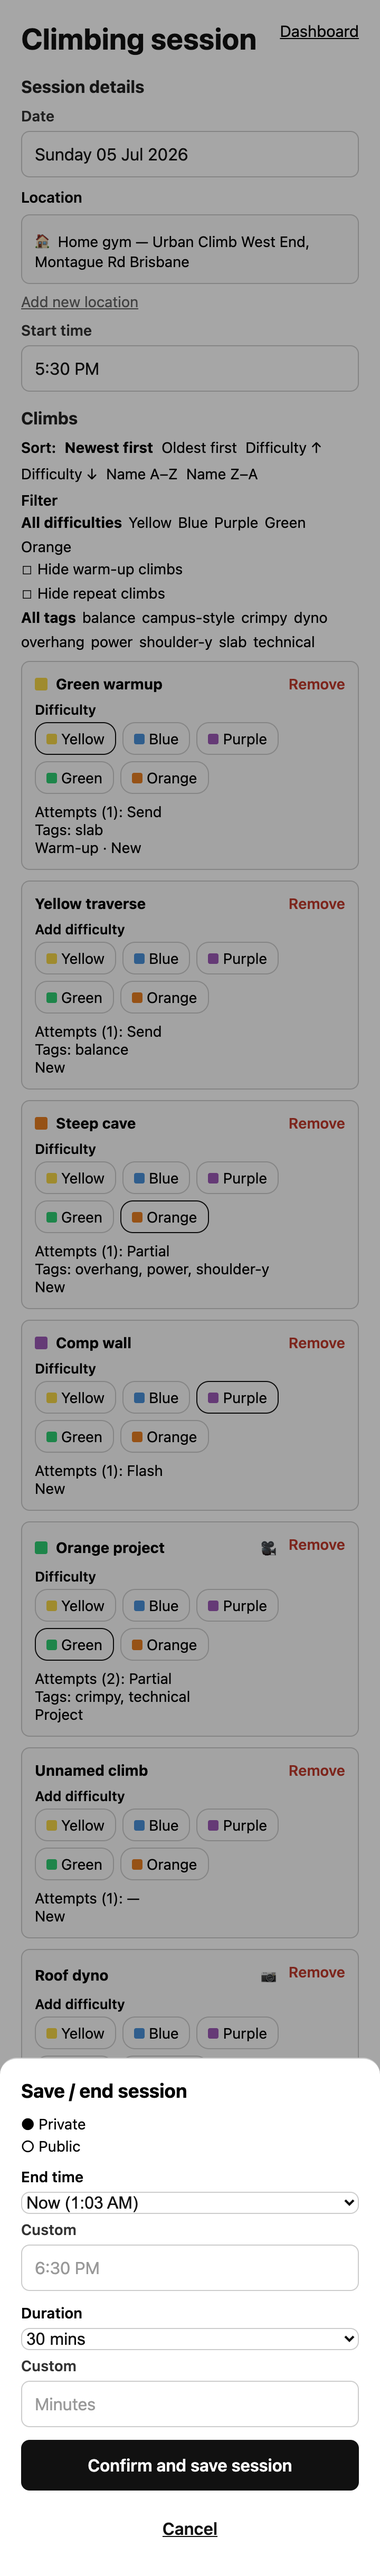
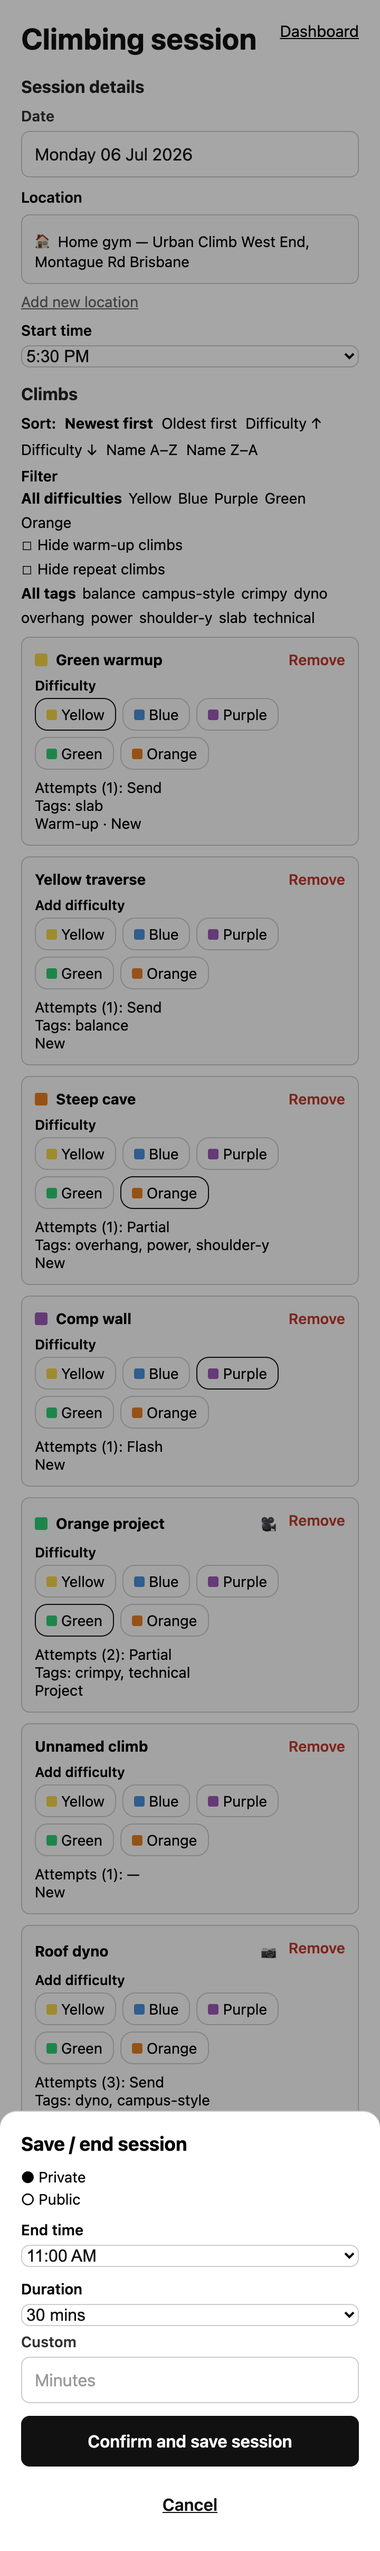
time dropdown field updated to allow more times to be added

diff --git a/app/sessions/[id]/active.tsx b/app/sessions/[id]/active.tsx
@@ -5,7 +5,7 @@ import { router, useLocalSearchParams } from 'expo-router';
 import { ClimbEditor } from '../../../src/components/SessionClimb';
 import { SessionClimbsList } from '../../../src/components/SessionClimbsList';
 import { SessionLocationPanel } from '../../../src/components/SessionLocationPanel';
-import { SessionTimeField } from '../../../src/components/SessionTimeField';
+import { SessionTimeDropdown } from '../../../src/components/SessionTimeDropdown';
 import { WireframeDropdown } from '../../../src/components/WireframeDropdown';
 import {
   WireframeBox,
@@ -24,7 +24,6 @@ import {
   climbHasDetails,
   computeDurationMinutes,
   DURATION_PRESETS,
-  END_TIME_PRESETS,
   formatSessionDate,
   nowTimeLabel,
   parseSessionDateDisplay,
@@ -77,7 +76,6 @@ export default function ActiveSessionScreen() {
   const [isPublic, setIsPublic] = useState(false);
   const [endTime, setEndTime] = useState(() => nowTimeLabel());
   const [durationMinutes, setDurationMinutes] = useState<number | undefined>();
-  const [customEndTime, setCustomEndTime] = useState('');
   const [customDuration, setCustomDuration] = useState('');
   const [usernameInput, setUsernameInput] = useState('');
   const [usernameTouched, setUsernameTouched] = useState(false);
@@ -102,16 +100,14 @@ export default function ActiveSessionScreen() {
       if (demo === 'flow-end-sheet') {
         const now = nowTimeLabel();
         setEndTime(now);
-        setCustomEndTime('');
-        setDurationMinutes(computeDurationMinutes('17:30', now));
+        setDurationMinutes(computeDurationMinutes('5:30 PM', now));
         setCustomDuration('');
         setShowEndSheet(true);
       }
       if (demo === 'flow-end-sheet-filled') {
-        setEndTime('19:30');
-        setCustomEndTime('');
-        setDurationMinutes(90);
+        setEndTime('7:30 PM');
         setCustomDuration('');
+        setDurationMinutes(90);
         setShowEndSheet(true);
       }
       flowUiApplied.current = demo;
@@ -135,15 +131,6 @@ export default function ActiveSessionScreen() {
     return getUsernameError(usernameInput, TAKEN_USERNAMES);
   }, [isPublic, username, usernameInput, usernameTouched]);
 
-  const endTimeOptions = useMemo(() => {
-    const now = nowTimeLabel();
-    const presets = END_TIME_PRESETS.filter((preset) => preset !== now);
-    return [
-      { value: now, label: `Now (${now})` },
-      ...presets.map((preset) => ({ value: preset, label: preset })),
-    ];
-  }, [showEndSheet]);
-
   const durationOptions = useMemo(
     () => DURATION_PRESETS.map((preset) => ({ value: String(preset.minutes), label: preset.label })),
     [],
@@ -152,7 +139,6 @@ export default function ActiveSessionScreen() {
   const openEndSheet = () => {
     const now = nowTimeLabel();
     setEndTime(now);
-    setCustomEndTime('');
     setDurationMinutes(computeDurationMinutes(session?.startTime ?? now, now));
     setCustomDuration('');
     setShowEndSheet(true);
@@ -291,19 +277,10 @@ export default function ActiveSessionScreen() {
             <Text>Sharing as {username}</Text>
           ) : null}
 
-          <WireframeDropdown
+          <SessionTimeDropdown
             label="End time"
             value={endTime}
-            options={endTimeOptions}
             onChange={(value) => {
-              setEndTime(value);
-              setCustomEndTime('');
-              setDurationMinutes(computeDurationMinutes(session.startTime, value));
-            }}
-            customValue={customEndTime}
-            customTime
-            onCustomChange={(value) => {
-              setCustomEndTime(value);
               setEndTime(value);
               setDurationMinutes(computeDurationMinutes(session.startTime, value));
             }}
@@ -380,7 +357,7 @@ export default function ActiveSessionScreen() {
             updateSession(session.id, { locationId, locationName })
           }
         />
-        <SessionTimeField
+        <SessionTimeDropdown
           label="Start time"
           value={session.startTime}
           onChange={(startTime) => updateSession(session.id, { startTime })}

diff --git a/src/utils/sessionUtils.ts b/src/utils/sessionUtils.ts
@@ -36,29 +36,10 @@ export function parseSessionDateDisplay(display: string) {
   return d.toISOString().slice(0, 10);
 }
 
-export const END_TIME_PRESETS = [
-  '5:00 PM',
-  '5:30 PM',
-  '6:00 PM',
-  '6:30 PM',
-  '7:00 PM',
-  '7:30 PM',
-  '8:00 PM',
-  '8:30 PM',
-  '9:00 PM',
-];
-
-export const TIME_INPUT_PLACEHOLDER = '6:30 PM';
-
 export function formatTimeLabel(hours24: number, minutes: number) {
   const period = hours24 >= 12 ? 'PM' : 'AM';
   const hours12 = hours24 % 12 || 12;
   return `${hours12}:${String(minutes).padStart(2, '0')} ${period}`;
-}
-
-export function nowTimeLabel() {
-  const d = new Date();
-  return formatTimeLabel(d.getHours(), d.getMinutes());
 }
 
 export function parseTimeToMinutes(time: string) {
@@ -86,6 +67,44 @@ export function parseTimeToMinutes(time: string) {
   }
 
   return 0;
+}
+
+export function snapTimeToQuarterHours(hours24: number, minutes: number) {
+  let total = hours24 * 60 + minutes;
+  total = Math.round(total / 15) * 15;
+  total = ((total % (24 * 60)) + 24 * 60) % (24 * 60);
+  return formatTimeLabel(Math.floor(total / 60), total % 60);
+}
+
+export const TIME_DROPDOWN_VALUES: string[] = (() => {
+  const values: string[] = [];
+  for (let hour = 0; hour < 24; hour += 1) {
+    for (let minute = 0; minute < 60; minute += 15) {
+      values.push(formatTimeLabel(hour, minute));
+    }
+  }
+  return values;
+})();
+
+export const TIME_DROPDOWN_OPTIONS = TIME_DROPDOWN_VALUES.map((value) => ({
+  value,
+  label: value,
+}));
+
+/** Map any h:mm AM/PM value to the nearest 15-minute dropdown option. */
+export function resolveTimeDropdownValue(time: string) {
+  const trimmed = time.trim();
+  if (!trimmed) return TIME_DROPDOWN_VALUES[0];
+  if (TIME_DROPDOWN_VALUES.includes(trimmed)) return trimmed;
+  const totalMinutes = parseTimeToMinutes(trimmed);
+  const hours24 = Math.floor(totalMinutes / 60);
+  const mins = totalMinutes % 60;
+  return snapTimeToQuarterHours(hours24, mins);
+}
+
+export function nowTimeLabel() {
+  const d = new Date();
+  return snapTimeToQuarterHours(d.getHours(), d.getMinutes());
 }
 
 export const DURATION_PRESETS: { label: string; minutes: number }[] = [

diff --git a/src/utils/validation.ts b/src/utils/validation.ts
@@ -1,5 +1,3 @@
-import { TIME_INPUT_PLACEHOLDER } from './sessionUtils';
-
 export function isValidEmail(value: string) {
   return /^[^\s@]+@[^\s@]+\.[^\s@]+$/.test(value.trim());
 }
@@ -43,47 +41,5 @@ export function getUsernameError(value: string, takenUsernames: string[]) {
   if (!value.trim()) return undefined;
   if (!/^[a-zA-Z0-9_]{3,20}$/.test(value)) return 'Use 3–20 letters, numbers, or underscores';
   if (takenUsernames.includes(value.toLowerCase())) return 'Username is already taken';
-  return undefined;
-}
-
-export function sanitizeTimeInput(value: string) {
-  return value.replace(/[^0-9:apmAPM\s]/g, '').slice(0, 8);
-}
-
-export function isValidTimeLabel(value: string) {
-  return !getTimeLabelError(value);
-}
-
-export function normalizeTimeLabel(value: string) {
-  const trimmed = value.trim().replace(/\s+/g, ' ');
-  const match = trimmed.match(/^(\d{1,2}):(\d{2})\s*(AM|PM)$/i);
-  if (!match) return trimmed;
-  const hours = Number(match[1]);
-  const minutes = Number(match[2]);
-  const period = match[3].toUpperCase();
-  if (hours < 1 || hours > 12 || minutes > 59) return trimmed;
-  return `${hours}:${String(minutes).padStart(2, '0')} ${period}`;
-}
-
-export function getTimeLabelError(value: string) {
-  const trimmed = value.trim().replace(/\s+/g, ' ');
-  if (!trimmed) return `Enter a time (e.g. ${TIME_INPUT_PLACEHOLDER})`;
-  if (!/^[\d:apmAPM\s]+$/.test(trimmed)) {
-    return `Use numbers, a colon, and AM or PM (e.g. ${TIME_INPUT_PLACEHOLDER})`;
-  }
-  if (!trimmed.includes(':')) return `Use h:mm AM/PM format (e.g. ${TIME_INPUT_PLACEHOLDER})`;
-
-  const match = trimmed.match(/^(\d{1,2}):(\d{2})(?:\s*(AM|PM)?)?$/i);
-  if (!match) return `Use h:mm AM/PM format (e.g. ${TIME_INPUT_PLACEHOLDER})`;
-
-  const hours = Number(match[1]);
-  const minutes = Number(match[2]);
-  const period = match[3]?.toUpperCase();
-
-  if (hours < 1 || hours > 12) return 'Hour must be between 1 and 12';
-  if (minutes > 59) return 'Minutes must be between 00 and 59';
-  if (match[2].length < 2) return 'Minutes must be two digits (e.g. 6:05 PM)';
-  if (!period) return 'Include AM or PM';
-
   return undefined;
 }

diff --git a/src/components/WireframeDropdown.tsx b/src/components/WireframeDropdown.tsx
@@ -10,7 +10,6 @@ import {
 } from 'react-native';
 
 import { WireframeField } from './Wireframe';
-import { SessionTimeField } from './SessionTimeField';
 
 export type DropdownOption = {
   value: string;
@@ -126,7 +125,6 @@ export function WireframeDropdown({
   customValue,
   onCustomChange,
   customPlaceholder,
-  customTime,
 }: {
   label: string;
   value: string;
@@ -135,7 +133,6 @@ export function WireframeDropdown({
   customValue?: string;
   onCustomChange?: (value: string) => void;
   customPlaceholder?: string;
-  customTime?: boolean;
 }) {
   const triggerRef = useRef<View>(null);
   const [menuOpen, setMenuOpen] = useState(false);
@@ -186,16 +183,12 @@ export function WireframeDropdown({
       )}
 
       {onCustomChange ? (
-        customTime ? (
-          <SessionTimeField label="Custom" value={customValue ?? ''} onChange={onCustomChange} />
-        ) : (
-          <WireframeField
-            label="Custom"
-            value={customValue ?? ''}
-            onChangeText={onCustomChange}
-            placeholder={customPlaceholder ?? 'Type a custom value'}
-          />
-        )
+        <WireframeField
+          label="Custom"
+          value={customValue ?? ''}
+          onChangeText={onCustomChange}
+          placeholder={customPlaceholder ?? 'Type a custom value'}
+        />
       ) : null}
     </View>
   );

diff --git a/app/sessions/[id]/edit.tsx b/app/sessions/[id]/edit.tsx
@@ -4,7 +4,7 @@ import { router, useLocalSearchParams } from 'expo-router';
 
 import { ClimbEditor } from '../../../src/components/SessionClimb';
 import { SessionClimbsList } from '../../../src/components/SessionClimbsList';
-import { SessionTimeField } from '../../../src/components/SessionTimeField';
+import { SessionTimeDropdown } from '../../../src/components/SessionTimeDropdown';
 import {
   WireframeBox,
   WireframeBottomSheet,
@@ -136,12 +136,12 @@ export default function EditSessionScreen() {
           value={session.date}
           onChangeText={(date) => updateSession(session.id, { date })}
         />
-        <SessionTimeField
+        <SessionTimeDropdown
           label="Start time"
           value={session.startTime}
           onChange={(startTime) => updateSession(session.id, { startTime })}
         />
-        <SessionTimeField
+        <SessionTimeDropdown
           label="End time"
           value={session.endTime ?? ''}
           onChange={(endTime) => updateSession(session.id, { endTime })}

diff --git a/src/components/SessionTimeDropdown.tsx b/src/components/SessionTimeDropdown.tsx
@@ -1,0 +1,23 @@
+import { WireframeDropdown } from './WireframeDropdown';
+import { resolveTimeDropdownValue, TIME_DROPDOWN_OPTIONS } from '../utils/sessionUtils';
+
+export function SessionTimeDropdown({
+  label,
+  value,
+  onChange,
+}: {
+  label: string;
+  value: string;
+  onChange: (time: string) => void;
+}) {
+  const resolved = resolveTimeDropdownValue(value);
+
+  return (
+    <WireframeDropdown
+      label={label}
+      value={resolved}
+      options={TIME_DROPDOWN_OPTIONS}
+      onChange={onChange}
+    />
+  );
+}

diff --git a/src/constants/flowScreenDimensions.ts b/src/constants/flowScreenDimensions.ts
@@ -84,7 +84,7 @@ export const FLOW_SCREEN_DIMENSIONS: Record<string, { width: number; height: num
   },
   "active-session-end-sheet": {
     "width": 720,
-    "height": 4878
+    "height": 4832
   },
   "active-session-end-sheet-filled": {
     "width": 720,

diff --git a/docs/tickets/Standards.md b/docs/tickets/Standards.md
@@ -21,10 +21,11 @@ Referenced from flow specs in [`Flow/`](./Flow/).
 ## Dates & times
 
 - [x] Date display format — Show dates as **Day DD Mmm YYYY** (e.g. Friday 03 Jul 2026)
-- [x] Time display and input — Use **h:mm AM/PM** (e.g. 6:30 PM, 12:00 PM) for all session times, presets, and custom time fields
-- [x] Time field validation — Use `SessionTimeField` (or `WireframeDropdown` with `customTime`) for time inputs; validate in real time and only save valid values
-- [x] Preset + custom dropdowns — Time and duration fields offer common presets and allow typing a custom value (e.g. end time, session duration)
-- [x] Dropdown menus — Preset pickers use a true dropdown (native `<select>` on web; floating overlay menu on native). Do not use inline accordion-style expand/collapse for preset selection
+- [x] Time display format — Use **h:mm AM/PM** (e.g. 6:30 PM, 12:00 PM) for stored and displayed session times
+- [x] Time field UI — All session time fields use `SessionTimeDropdown` (`WireframeDropdown` with the standard time list). No free-text time inputs
+- [x] Time dropdown options — **12:00 AM** through **11:45 PM** in **15-minute** steps (96 options). Auto-filled times snap to the nearest quarter hour
+- [x] Preset + custom dropdowns — Duration fields may offer presets plus a custom value; time fields do not use custom text entry
+- [x] Dropdown menus — Pickers use a true dropdown (native `<select>` on web; floating overlay menu on native). Do not use inline accordion-style expand/collapse
 
 ## Lists & filters
 

diff --git a/docs/tickets/Flow/ClimbingSessionCreate.md b/docs/tickets/Flow/ClimbingSessionCreate.md
@@ -9,7 +9,7 @@ Applies [Standards](../Standards.md) unless noted below.
 - [x] If no location added users will need an option to be able to add now — Opens a centered modal (not a bottom sheet) with address search, optional nickname, and full difficulty-level setup (same journey as member profile)
 - [x] Users must be able to swap the location or add a new location but adding a new location is not a prominent option
 - [x] Start time auto adds current time
-- [x] Option to set the end time using a dropdown or choose length of the climbing session using a dropdown — True dropdown menu (native select on web; floating overlay on native), not an inline accordion; presets plus custom field per Standards
+- [x] Option to set the end time using a dropdown or choose length of the climbing session using a dropdown — `SessionTimeDropdown` for start/end time (12:00 AM–11:45 PM, 15-min steps); duration dropdown with presets + custom minutes
 - [x] Add climbs
 - [x] While adding or editing a climb, footer primary action is Save climb (replaces Add climb until saved or cancelled)
 - [x] Edit climbs
